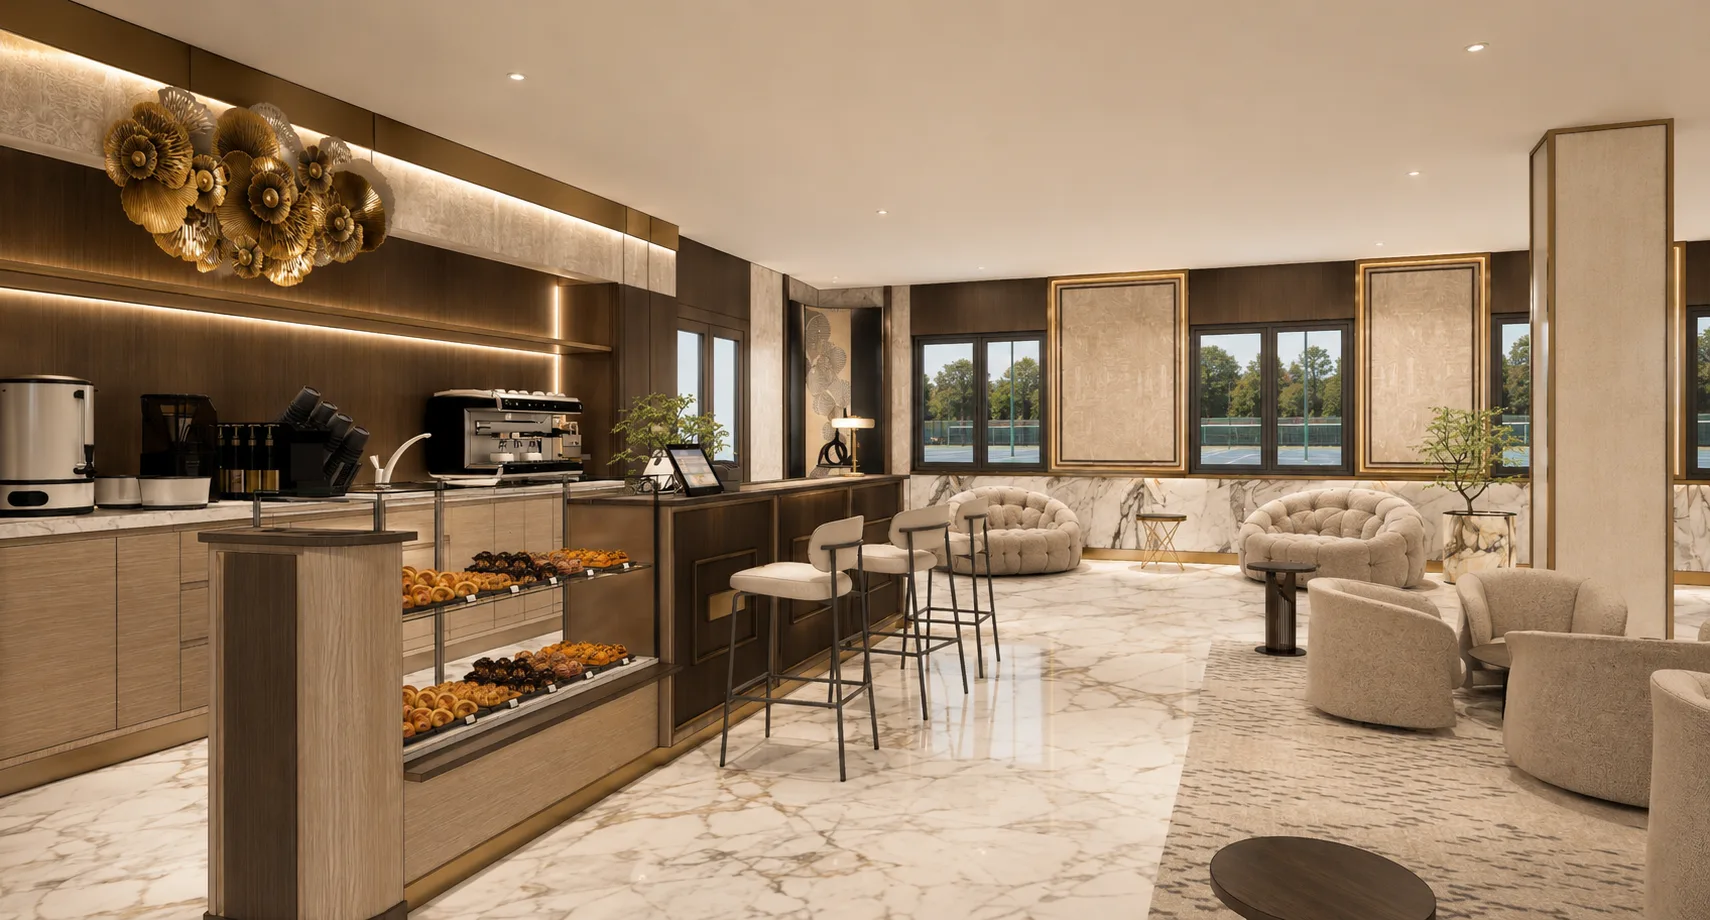
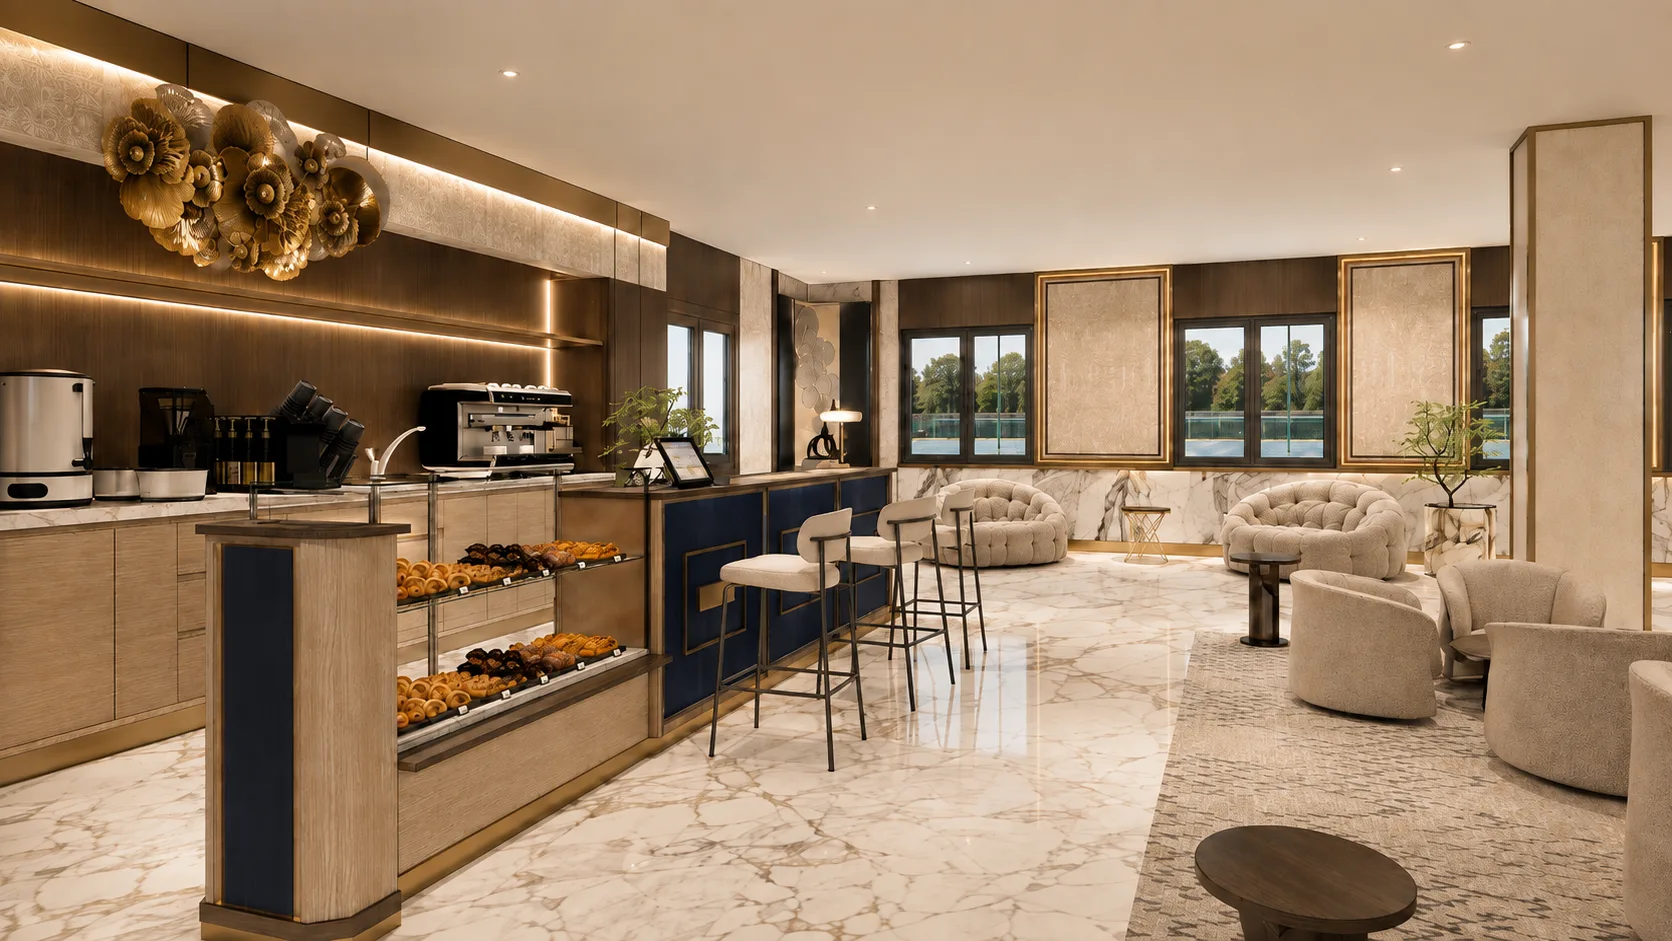
Replace cafe photos with revised assets across the site.

diff --git a/web/src/app/cafe-dining/page.tsx b/web/src/app/cafe-dining/page.tsx
@@ -9,10 +9,10 @@ export const metadata: Metadata = {
 const heroSlides = [
   {
     id: "dining-hero-cafe",
-    label: "7OZ cafe lounge with grand piano",
-    src: "/images/cafe-dining/cafe-3.webp",
+    label: "7OZ cafe counter and lounge",
+    src: "/images/cafe-dining/cafe-1.webp",
     position: "50% 50%",
-    mobilePosition: "38% 50%",
+    mobilePosition: "42% 50%",
   },
   {
     id: "dining-hero-buffet",

diff --git a/web/src/app/page.tsx b/web/src/app/page.tsx
@@ -27,6 +27,13 @@ const heroSlides = [
     mobilePosition: "50% 52%",
   },
   {
+    id: "cafe",
+    label: "7OZ cafe counter and lounge",
+    src: "/images/cafe-dining/cafe-1.webp",
+    position: "50% 48%",
+    mobilePosition: "42% 50%",
+  },
+  {
     id: "junior-suite",
     label: "Junior Suite living and dining area",
     src: "/images/overview-hero/junior-suite.webp",

diff --git a/web/src/app/gallery/page.tsx b/web/src/app/gallery/page.tsx
@@ -81,9 +81,9 @@ const galleryImages: GalleryImage[] = [
     alt: "Children's playground at HADITH Hotel",
   },
   {
-    id: "cafe-lounge",
-    src: "/images/cafe-dining/cafe-3.webp",
-    alt: "Cafe lounge with grand piano at HADITH Hotel",
+    id: "cafe-bar",
+    src: "/images/cafe-dining/cafe-2.webp",
+    alt: "7OZ coffee bar at HADITH Hotel",
   },
 ];
 

diff --git a/web/src/components/CafeDiningVenues.tsx b/web/src/components/CafeDiningVenues.tsx
@@ -63,10 +63,6 @@ const venues: Venue[] = [
         src: "/images/cafe-dining/cafe-2.webp",
         label: "7OZ coffee bar",
       },
-      {
-        src: "/images/cafe-dining/cafe-3.webp",
-        label: "7OZ lounge with grand piano",
-      },
     ],
   },
 ];

diff --git a/web/src/components/OverviewHotelExperiences.tsx b/web/src/components/OverviewHotelExperiences.tsx
@@ -22,7 +22,7 @@ const slides: FeatureSlide[] = [
     id: "cafe-dining",
     title: "Cafe & Dining",
     href: "/cafe-dining",
-    src: "/images/overview-features/cafe-dining.webp",
+    src: "/images/cafe-dining/cafe-1.webp",
   },
   {
     id: "experience",
